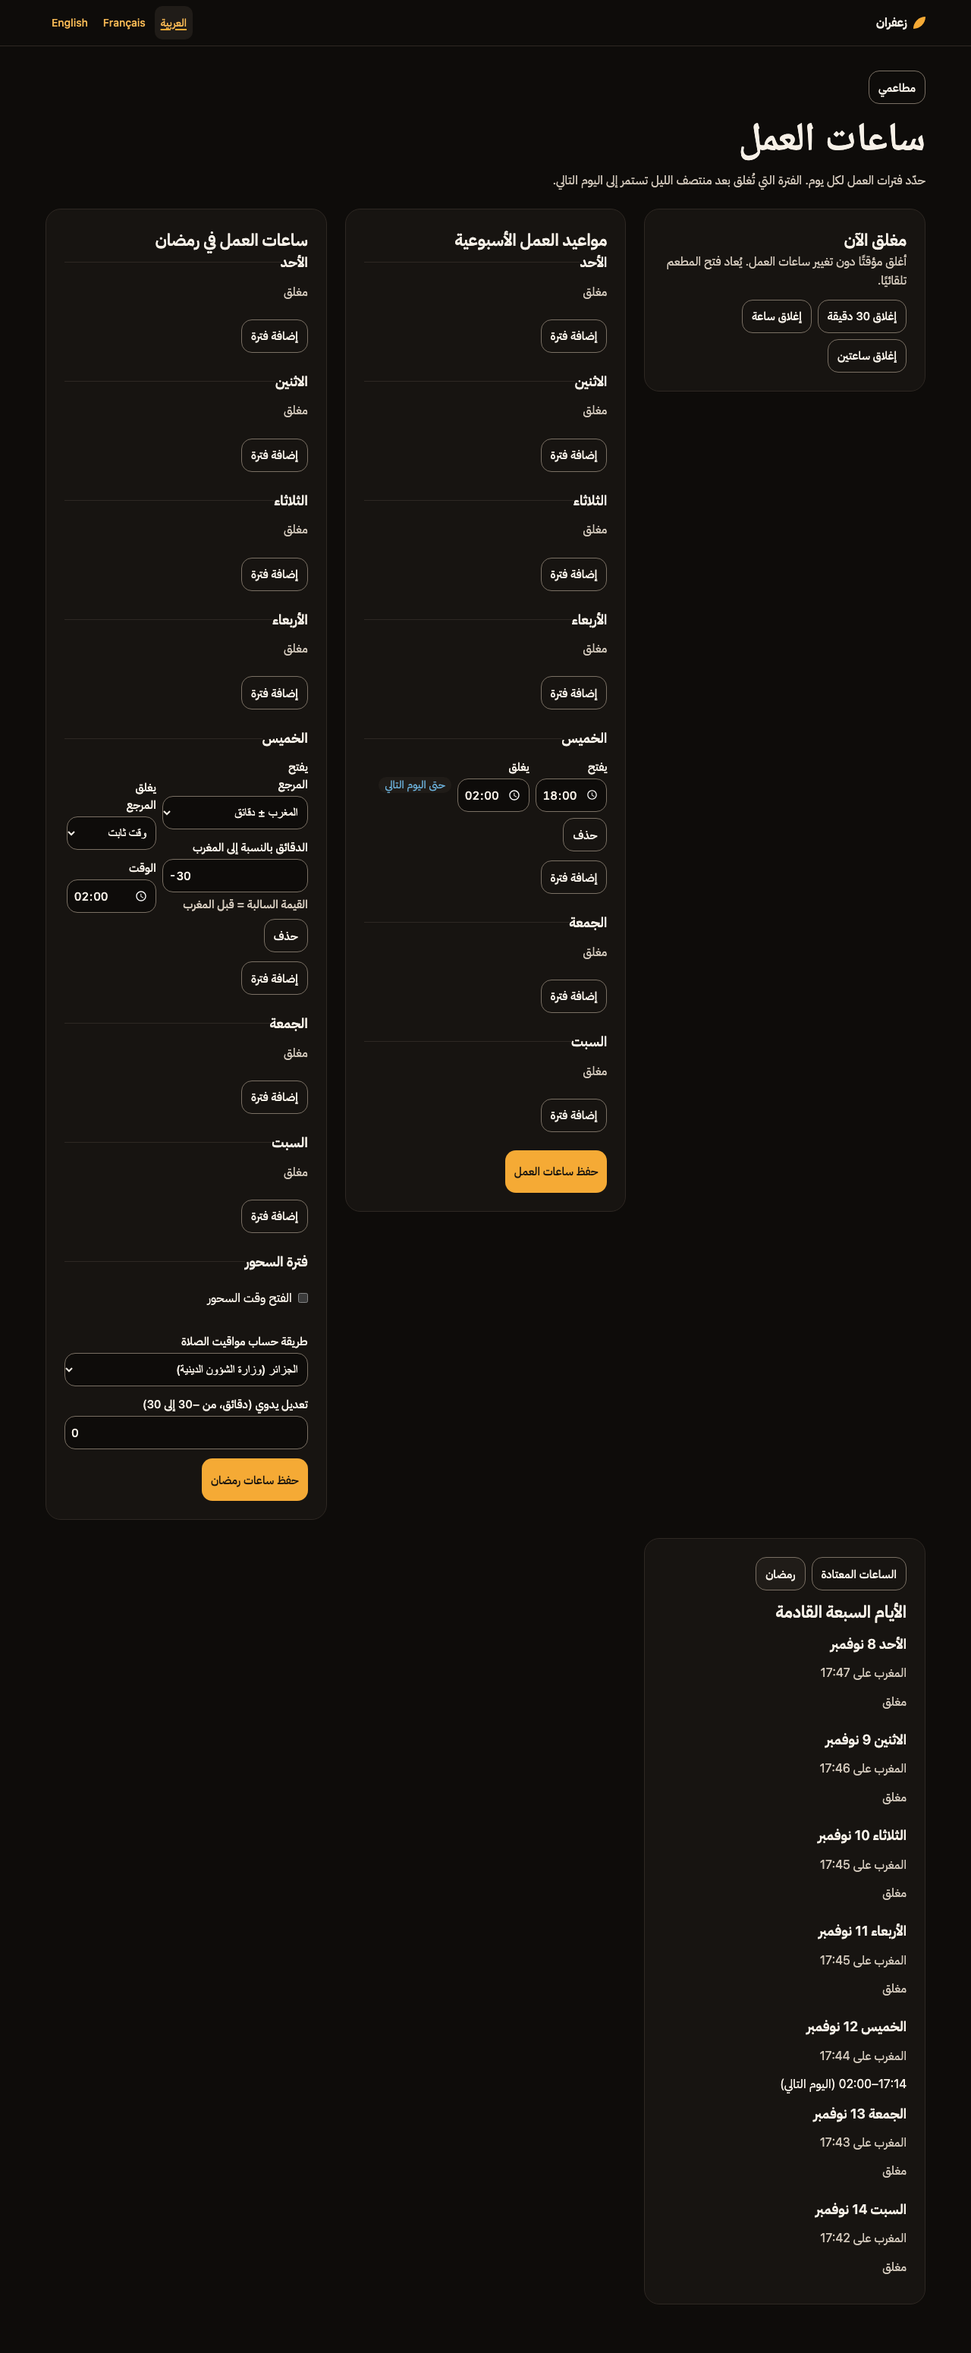
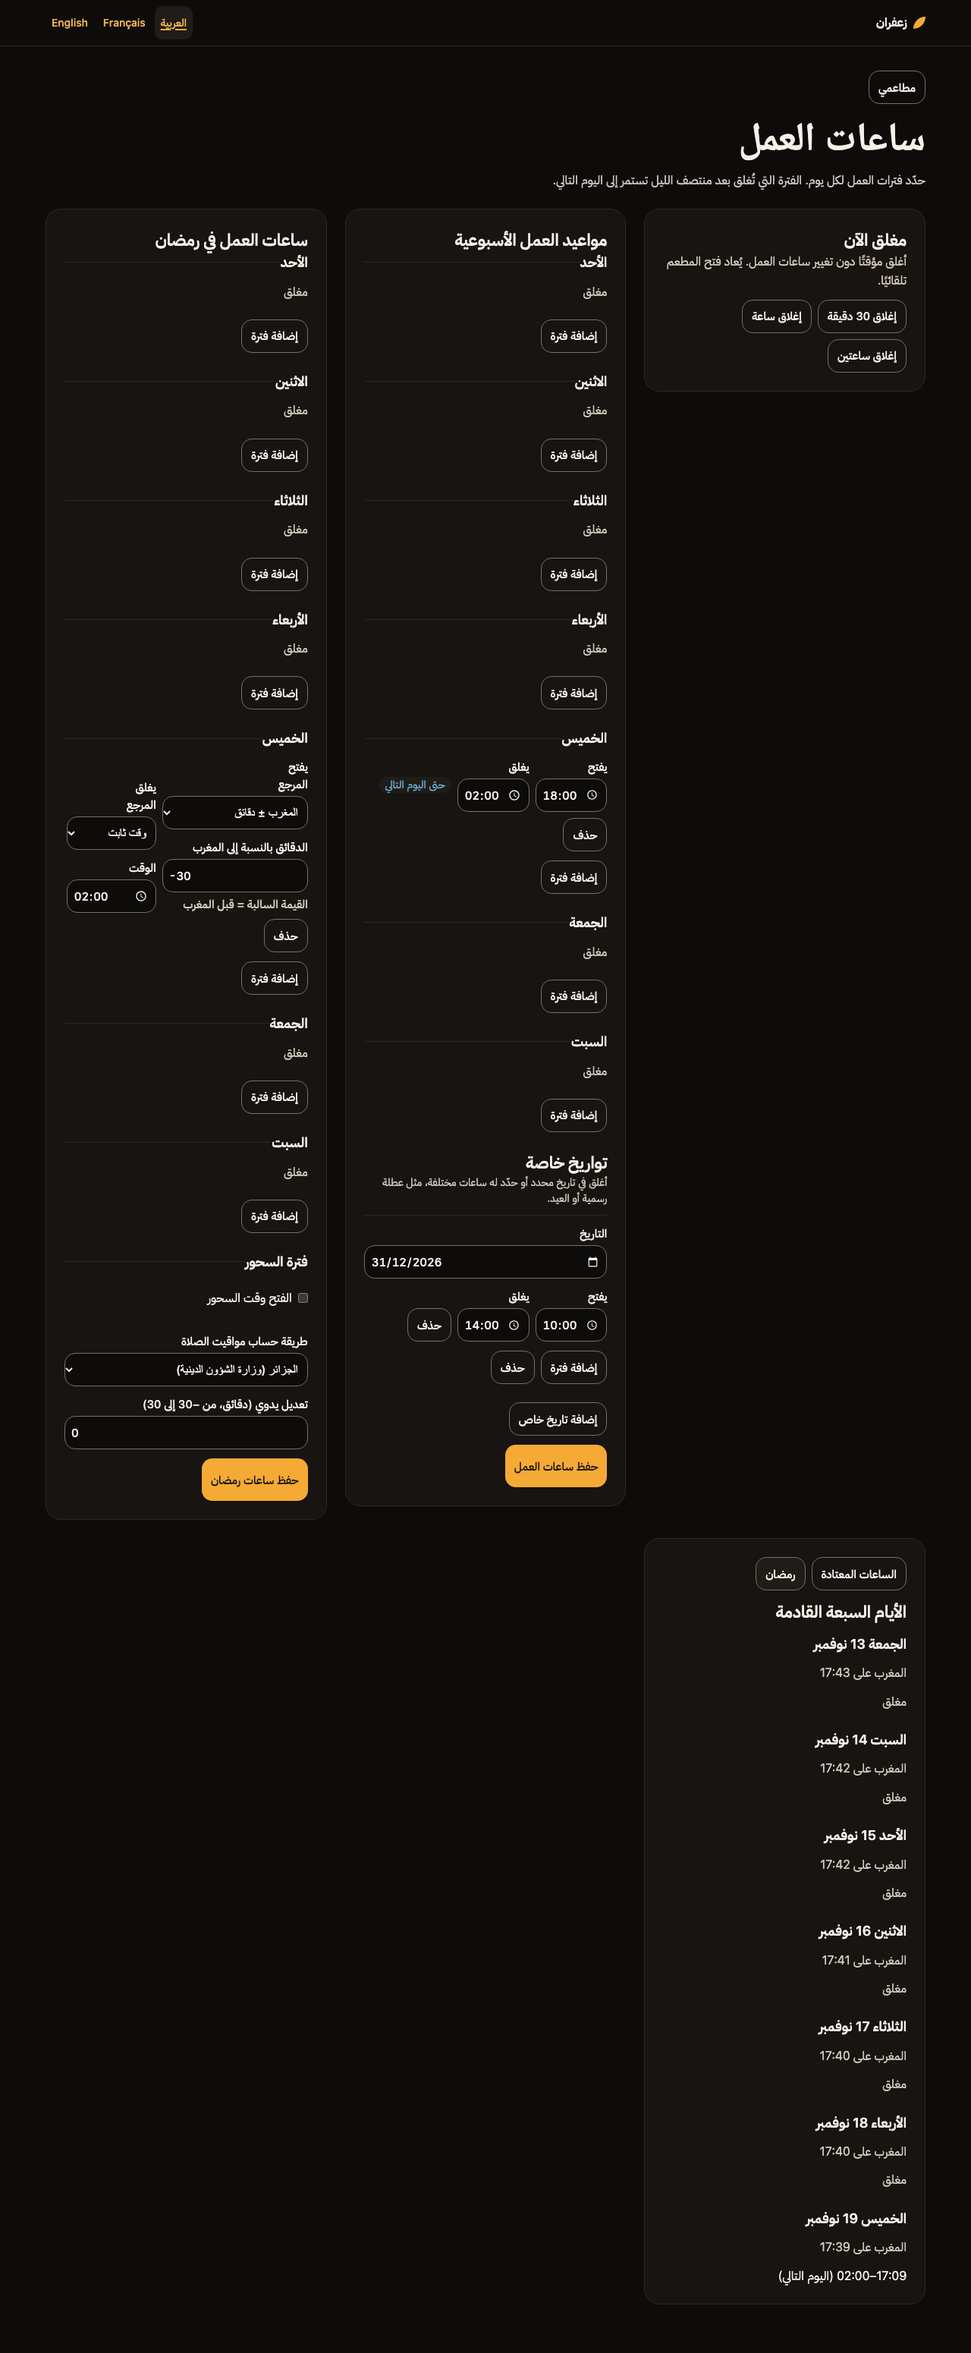
feat(web): edit special dates on the hours page
Expose add/change/remove controls for dates and ranges with focus
management, render the fields in the weekly form, and prove create,
edit, readback and delete in the ar/fr production journeys.

diff --git a/apps/web/src/merchant-hours/use-hours-editor.ts b/apps/web/src/merchant-hours/use-hours-editor.ts
@@ -8,18 +8,70 @@ import {
   removeHoursRange,
   updateHoursRange,
   type HoursDraft,
+  type HoursError,
 } from "./hours-editor";
 import { initialHoursState, prepareHoursSave, reduceHours, type HoursEvent } from "./hours-flow";
 import { isStale, readHours, readHoursPreview, replaceHours } from "./hours-http";
+import {
+  addSpecialDate,
+  addSpecialDateRange,
+  removeSpecialDate,
+  removeSpecialDateRange,
+  updateSpecialDate,
+  updateSpecialDateRange,
+} from "./special-dates-editor";
 import { useHoursPause } from "./use-hours-pause";
 import { useRamadanEditor } from "./use-ramadan-editor";
 
 type RangeAddress = { weekday: number; index: number };
+type DateRangeAddress = { index: number; rangeIndex: number };
+type EditDraft = (change: (draft: HoursDraft) => HoursDraft) => HoursDraft | undefined;
 type PreviewRead = Awaited<ReturnType<typeof readHoursPreview>>;
 type PreviewView = PreviewRead | { kind: "loading" };
 type PreviewSchedule = Parameters<typeof readHoursPreview>[0]["schedule"];
 /** A CSS selector inside the hours panel that should receive focus after the last action. */
 type FocusRequest = { selector: string };
+
+/** A new special date starts on today's Algiers civil date, as `<input type="date">` writes it. */
+function todayInAlgiers(): string {
+  return new Intl.DateTimeFormat("en-CA", { timeZone: "Africa/Algiers" }).format(new Date());
+}
+
+function errorSelector(error: HoursError): string {
+  return isDayError(error)
+    ? `#hours-${String(error.weekday)}-0-opens`
+    : `#special-date-${String(error.index)}-date`;
+}
+
+function useSpecialDateControls(editDraft: EditDraft, focus: (selector: string) => void) {
+  const editDates = (change: (dates: HoursDraft["specialDates"]) => HoursDraft["specialDates"]) =>
+    editDraft((draft) => ({ ...draft, specialDates: change(draft.specialDates) }));
+  return {
+    addDate: () => {
+      const draft = editDates((dates) => addSpecialDate(dates, todayInAlgiers()));
+      if (draft) focus(`#special-date-${String(draft.specialDates.length - 1)}-date`);
+    },
+    changeDate: (edit: { index: number; date: string }) => {
+      editDates((dates) => updateSpecialDate(dates, edit));
+    },
+    removeDate: (index: number) => {
+      if (editDates((dates) => removeSpecialDate(dates, index))) focus("#special-date-add");
+    },
+    addRange: (index: number) => {
+      const draft = editDates((dates) => addSpecialDateRange(dates, index));
+      const count = draft?.specialDates[index]?.ranges.length ?? 0;
+      if (count > 0) focus(`#special-date-${String(index)}-${String(count - 1)}-opens`);
+    },
+    changeRange: (edit: DateRangeAddress & { field: keyof RangeDraft; value: string }) => {
+      editDates((dates) => updateSpecialDateRange(dates, edit));
+    },
+    removeRange: (range: DateRangeAddress) => {
+      if (editDates((dates) => removeSpecialDateRange(dates, range))) {
+        focus(`#special-date-${String(range.index)}-add`);
+      }
+    },
+  };
+}
 
 function rangeCount(draft: HoursDraft, weekday: number): number {
   return draft.weekly.find((day) => day.weekday === weekday)?.ranges.length ?? 0;
@@ -104,6 +156,10 @@ export function useHoursEditor(merchantId: string) {
     return draft;
   }
 
+  const specialDates = useSpecialDateControls(editDraft, (selector) => {
+    setFocus({ selector });
+  });
+
   function change(edit: RangeAddress & { field: keyof RangeDraft; value: string }) {
     editDraft((draft) => updateHoursRange(draft, edit));
   }
@@ -127,9 +183,8 @@ export function useHoursEditor(merchantId: string) {
     if (attempt.kind === "unavailable") return;
     if (attempt.kind === "invalid") {
       dispatch({ kind: "validation-failed", errors: attempt.errors });
-      // TODO(M2-9): focus a special-date error once its fields exist.
-      const first = attempt.errors.find(isDayError);
-      if (first) setFocus({ selector: `#hours-${String(first.weekday)}-0-opens` });
+      const [first] = attempt.errors;
+      if (first) setFocus({ selector: errorSelector(first) });
       return;
     }
     inFlight.current = true;
@@ -162,6 +217,7 @@ export function useHoursEditor(merchantId: string) {
       remove: ramadan.remove,
       save: ramadan.save,
     },
+    specialDates,
     focus,
     change,
     add,

diff --git a/e2e/auth-merchant-hours.spec.ts b/e2e/auth-merchant-hours.spec.ts
@@ -86,6 +86,49 @@ async function expectRamadanPreview(page: Page, labels: Labels, locale: Locale) 
   await expect(thursday).toContainText(nextDay);
 }
 
+function weeklyForm(page: Page, labels: Labels): Locator {
+  const week = page.getByRole("group", { name: labels.weeklyLegend, exact: true });
+  return page.locator("form", { has: week });
+}
+
+function specialDates(page: Page, labels: Labels): Locator {
+  return page.getByRole("group", { name: labels.specialLegend, exact: true });
+}
+
+async function saveWeeklyForm(page: Page, labels: Labels) {
+  const form = weeklyForm(page, labels);
+  await form.getByRole("button", { name: labels.save, exact: true }).click();
+  await expect(form.getByText(labels.saved, { exact: true })).toBeVisible();
+}
+
+async function createSpecialDate(page: Page, labels: Labels) {
+  const special = specialDates(page, labels);
+  await expect(special.getByText(labels.specialEmpty, { exact: true })).toBeVisible();
+  await special.getByRole("button", { name: labels.addSpecialDate, exact: true }).click();
+  const date = special.getByLabel(labels.specialDateLabel, { exact: true });
+  await expect(date).toBeFocused();
+  await date.fill("2026-12-31");
+  await expect(special.getByText(labels.specialClosed, { exact: true })).toBeVisible();
+  await special.locator("#special-date-0-add").click();
+  const opens = special.getByLabel(labels.opensLabel, { exact: true });
+  await expect(opens).toBeFocused();
+  await opens.fill("10:00");
+  await special.getByLabel(labels.closesLabel, { exact: true }).fill("14:00");
+  await saveWeeklyForm(page, labels);
+}
+
+async function deleteSpecialDate(page: Page, labels: Labels) {
+  const special = specialDates(page, labels);
+  const remove = fill(labels.removeSpecialDate, { date: "2026-12-31" });
+  await special.getByRole("button", { name: remove, exact: true }).click();
+  await expect(special.locator("#special-date-add")).toBeFocused();
+  await expect(special.getByText(labels.specialEmpty, { exact: true })).toBeVisible();
+  await saveWeeklyForm(page, labels);
+  await page.reload();
+  await expect(specialDates(page, labels).getByText(labels.specialEmpty)).toBeVisible();
+  await expect(page.locator("#special-date-0-date")).toHaveCount(0);
+}
+
 async function checkMatrix(page: Page, info: TestInfo, locale: Locale) {
   for (const theme of ["light", "dark"] as const) {
     for (const width of [390, 1280]) {
@@ -123,8 +166,14 @@ for (const locale of ["ar", "fr"] as const) {
         await saveRamadanRange(page, labels);
         await expectRamadanPreview(page, labels, locale);
       });
-      await test.step("Read both schedules back after a reload", async () => {
+      await test.step("Create a special date and edit it to open 10:00–14:00", async () => {
+        await createSpecialDate(page, labels);
+      });
+      await test.step("Read the schedules and the special date back after a reload", async () => {
         await page.reload();
+        await expect(page.locator("#special-date-0-date")).toHaveValue("2026-12-31");
+        await expect(page.locator("#special-date-0-0-opens")).toHaveValue("10:00");
+        await expect(page.locator("#special-date-0-0-closes")).toHaveValue("14:00");
         const week = page.getByRole("group", { name: labels.weeklyLegend, exact: true });
         await expect(day(week, labels, "thursday").getByLabel(labels.opensLabel)).toHaveValue(
           "18:00",
@@ -134,6 +183,9 @@ for (const locale of ["ar", "fr"] as const) {
       });
       await test.step("Check the theme and viewport matrix", async () => {
         await checkMatrix(page, info, locale);
+      });
+      await test.step("Delete the special date and read the empty list back", async () => {
+        await deleteSpecialDate(page, labels);
       });
     });
   });

diff --git a/apps/web/src/merchant-hours/components/merchant-hours-screen.tsx b/apps/web/src/merchant-hours/components/merchant-hours-screen.tsx
@@ -3,12 +3,13 @@
 import type { Locale } from "@zaafran/i18n/locales";
 import { useTranslations } from "next-intl";
 import { useEffect, useRef } from "react";
-import { isDayError } from "../hours-editor";
+import { isDayError, isSpecialDateError } from "../hours-editor";
 import type { HoursState } from "../hours-flow";
 import { useHoursEditor, type MerchantHoursEditor } from "../use-hours-editor";
 import { HoursPauseControl } from "./hours-pause-control";
 import { HoursPreviewList } from "./hours-preview-list";
 import { RamadanCard } from "./ramadan-card";
+import { SpecialDatesFields } from "./special-dates-fields";
 import { ReloadHours, reloadMessages, SaveOutcome } from "./save-outcome";
 import { WeeklyHoursFields } from "./weekly-hours-fields";
 
@@ -138,6 +139,17 @@ function HoursWorkspace({
           onChange={controls.change}
           onAdd={controls.add}
           onRemove={controls.remove}
+        />
+        <SpecialDatesFields
+          drafts={state.draft.specialDates}
+          errors={state.errors.filter(isSpecialDateError)}
+          isDisabled={isSaving}
+          onDateChange={controls.specialDates.changeDate}
+          onRangeChange={controls.specialDates.changeRange}
+          onAddDate={controls.specialDates.addDate}
+          onRemoveDate={controls.specialDates.removeDate}
+          onAddRange={controls.specialDates.addRange}
+          onRemoveRange={controls.specialDates.removeRange}
         />
         <SaveOutcome state={state} reload={controls.reload} />
         <button className="menu-item-primary" type="submit" data-hours-save disabled={isSaving}>

diff --git a/apps/web/test/merchant-hours-screen.test.tsx b/apps/web/test/merchant-hours-screen.test.tsx
@@ -42,6 +42,14 @@ const controls: MerchantHoursEditor = {
     reopen: vi.fn(),
     retry: vi.fn(),
   },
+  specialDates: {
+    addDate: vi.fn(),
+    changeDate: vi.fn(),
+    removeDate: vi.fn(),
+    addRange: vi.fn(),
+    changeRange: vi.fn(),
+    removeRange: vi.fn(),
+  },
   focus: undefined,
   change: vi.fn(),
   add: vi.fn(),
@@ -203,4 +211,29 @@ test("[MER-16] edits the Ramadan schedule in its own form with its own save", ()
   });
   expect(unavailable).toContain(merchantHours.ramadanUnavailable);
   expect(unavailable).toContain(merchantHours.weeklyLegend);
+});
+
+test("[MER-15] edits special dates inside the weekly form and routes only their errors to them", () => {
+  const { merchantHours } = getMessages("fr");
+  const withDate = { ...draft, specialDates: [{ date: "2026-12-31", ranges: [] }] };
+  const html = render("fr", {
+    state: {
+      kind: "editing",
+      sessionId,
+      revision: 2,
+      draft: withDate,
+      errors: [
+        { weekday: 4, reason: "time" },
+        { index: 0, reason: "duplicate" },
+      ],
+    },
+  });
+  const form = html.slice(
+    html.indexOf(merchantHours.weeklyLegend),
+    html.indexOf("data-hours-save"),
+  );
+  expect(form).toContain(`<legend>${merchantHours.specialLegend}</legend>`);
+  expect(form).toMatch(/id="special-date-0-date" type="date"[^>]*value="2026-12-31"/);
+  expect(html).toContain(`id="special-date-0-error" role="alert">${merchantHours.errorDuplicate}`);
+  expect(html).toContain(`id="hours-4-error" role="alert">${merchantHours.errorTime}`);
 });

diff --git a/apps/web/src/merchant-hours/hours-editor.ts b/apps/web/src/merchant-hours/hours-editor.ts
@@ -28,6 +28,10 @@ export function isDayError(error: HoursError): error is DayError {
   return "weekday" in error;
 }
 
+export function isSpecialDateError(error: HoursError): error is SpecialDateError {
+  return !isDayError(error);
+}
+
 export function toHoursDraft(hours: HoursInput): HoursDraft {
   return {
     weekly: hours.weekly.map(({ weekday, ranges }) => ({ weekday, ranges: toRangeDrafts(ranges) })),

diff --git a/docs/PROGRESS.md b/docs/PROGRESS.md
@@ -13,6 +13,14 @@ Newest entry first. One entry per task. Evidence = the commands you ran and thei
 
 ---
 
+### 2026-11-13 04:19 GMT — M2-9 special dates wired and proven in the browser (Claude, covering while Codex was out)
+
+- **Changed** — `use-hours-editor.ts` now exposes the `specialDates` controls: add, change and remove for dates and their ranges. A new date starts on today's `Africa/Algiers` date. Focus moves to the new date input, the new range's opening time, or the add button after a removal. A failed save focuses the first error, whether it is on a weekday or a special date, which resolves `TODO(M2-9)`. `merchant-hours-screen.tsx` renders `SpecialDatesFields` in the weekly form and routes only special-date errors to it (`isSpecialDateError`). Extended `e2e/auth-merchant-hours.spec.ts` with create, edit, reload readback and delete in ar and fr. Ticked M2-9.
+- **Evidence** — The new screen test failed first because the special-dates fields were not rendered. All 102 hours web tests then passed. `pnpm test:e2e:auth --grep @merchant-hours` passed both production journeys, with an 8-case matrix of zero axe violations and zero overflow. `pnpm verify` exited 0 with 1,330 unit and 156 PostGIS integration tests. [Evidence](evidence/m2/hours.md)
+- **Reviewer** — Self-review against AGENTS §10 found no P0/P1. P2: no test covers the focus after removing a single special-date range or the today default. Both are listed in the evidence file.
+- **Next** — M2-10 "Prove the customer-facing preview excludes blocked items". First check whether a customer preview route exists yet. Per PLAN M2-5, it was deferred to the moderated M2-10/M2-12 flow. Otherwise, start M2-6 worker decoding (JPEG/PNG/WebP/HEIC) in `apps/worker`, beginning with `scout` checking current versions of the image library.
+- **Needs Mahdi** — None.
+
 ### 2026-11-13 04:17 GMT — M2-9 special-dates fields (Claude, covering while Codex was out)
 
 - **Changed** — Added the presentational `apps/web/src/merchant-hours/components/special-dates-fields.tsx`. Each entry has a labelled date input, a "closed all day" state, up to four labelled time ranges with an overnight badge, date-specific remove names, and a per-entry error alert linked with `aria-describedby`. "Add date" is disabled at the contract's 60-date limit and "Add range" at four ranges. Added 10 `merchantHours` messages in ar, fr and en.
@@ -902,7 +910,7 @@ Newest entry first. One entry per task. Evidence = the commands you ran and thei
 
 ## Current status
 
-- Milestone: M1 (last passing gate, M2 in progress)
+- Milestone: M1 (last passing gate, M2 in progress; M2-8 and M2-9 done)
 - Audited baseline `88363b7`: `pnpm trace --through m2` covered 35 of 37 IDs and identified missing `MER-01` and `MER-14`. Import (M2-8) is complete, including its production browser journey. See `docs/evidence/m2/baseline-audit.md` for feature and gate gaps.
 - Last green baseline `pnpm verify`: 2026-11-08 12:42 GMT on Docker Desktop with 1,246 unit and 155 PostGIS integration tests. Both production browser suites passed, 59 foundation and 16 authenticated cases.
 - Open HUMAN_TODO items: see docs/HUMAN_TODO.md

diff --git a/docs/PLAN.md b/docs/PLAN.md
@@ -98,7 +98,7 @@ Run red → green → `pnpm verify` → reviewer → commit and push for each im
   - [x] Validate raw cells and sign the validated preview context. Cover field errors, duplicate keys and exact prices.
   - [x] Persist external keys and implement revision-bound preview and atomic apply with prohibited-goods screening.
   - [x] Connect bounded CSV/XLSX parsing, template download and the localized import journey.
-- [ ] M2-9 Hours and Ramadan (MER-15, MER-16). Persist weekly ranges, dated exceptions, Ramadan offsets and location. Render seven-day previews through the M1 rules and exercise overnight and Ramadan edits in Arabic and French.
+- [x] M2-9 Hours and Ramadan (MER-15, MER-16). Persist weekly ranges, dated exceptions, Ramadan offsets and location. Render seven-day previews through the M1 rules and exercise overnight and Ramadan edits in Arabic and French.
   - [x] Define the weekly ranges and special-dates input contract (overnight ranges, no same-day overlap, bounded sizes).
   - [x] Persist weekly ranges and special dates with an owner/manager-scoped, idempotent replace command on the menu revision guard (D-011).
   - [x] Add the authenticated `GET`/`PUT /v1/merchants/:merchantId/hours` routes with the command and read contracts, authorization-matrix rows and OpenAPI.
@@ -121,11 +121,11 @@ Run red → green → `pnpm verify` → reviewer → commit and push for each im
     - [x] Add the regular/Ramadan preview toggle to the hours page.
     - [x] Wire the Ramadan editor into the hours page.
     - [x] Prove the production-build overnight and Ramadan journeys in Arabic and French, plus the screenshot matrix.
-  - [ ] Add dated exceptions to the web editor and prove create, edit and delete in the production browser journey.
+  - [x] Add dated exceptions to the web editor and prove create, edit and delete in the production browser journey.
     - [x] Add the pure special-dates draft model (add, edit, remove dates and ranges; contract-backed date, time, overlap and duplicate errors).
     - [x] Carry special-date drafts in `HoursDraft` and validate them in `toHoursInput` with per-entry errors.
     - [x] Add the presentational special-dates fields with ar/fr/en messages.
-    - [ ] Wire the fields into the hours page and prove create, edit and delete in the production journey with the design matrix.
+    - [x] Wire the fields into the hours page and prove create, edit and delete in the production journey with the design matrix.
 - [ ] M2-10 Moderation (§17.3, ADM-04). Check prohibited goods on every menu write path and public preview. Prove flagged items stay hidden until the audited review outcome permits listing.
   - [x] Add the pure prohibited-goods matcher in `@zaafran/domain` (ar/fr/en/Arabizi keywords, whole words, property tests).
   - [x] Apply the matcher in the item create/update repository commands, setting `blocked_pending_review` in the same transaction, with integration tests per write path.

diff --git a/docs/evidence/m2/hours.md b/docs/evidence/m2/hours.md
@@ -7,3 +7,10 @@ A temporary change of the expected offset to −31 made the French journey fail 
 The same journeys capture the matrix (light/dark × ar/fr × 390×844 / 1280×800) after the Ramadan save. All 8 cases have zero axe WCAG A/AA/2.1/2.2 AA violations and no horizontal overflow. In the captures, the Ramadan preview shows Thursday 17:14–02:00 against Maghrib at 17:44 for the seeded Algiers location. [Lossless captures](hours/)
 
 Design notes (P2, for the M2-12 design critic): at 1280 px, the preview card wraps into a fourth grid slot below the closed-now card instead of sitting beside the editors. Not covered here: 768×1024, 200% text and a separate design-critic review.
+
+## Special dates (2026-11-13, Claude covering while Codex was out)
+
+The same two journeys now also cover dated exceptions. After the Ramadan save, the owner chooses **Add a special date**, and focus moves to the new date input. They set 2026-12-31, see "closed all day", add a range (focus moves to its opening time), set 10:00–14:00 and save the weekly form. After a reload, the date and both times read back. The matrix is now captured with this special date listed, and all 8 cases still have zero axe violations and no overflow. The owner then removes the date by its date-specific name. Focus moves to **Add a special date**, the empty-list text shows, and after saving and reloading no special date remains. `pnpm test:e2e:auth --grep @merchant-hours` passed both locales. The captures in [hours/](hours/) were replaced with these runs.
+
+Not covered by the browser journey: the focus after removing a single special-date range, and the default start date (today in Africa/Algiers).
+
